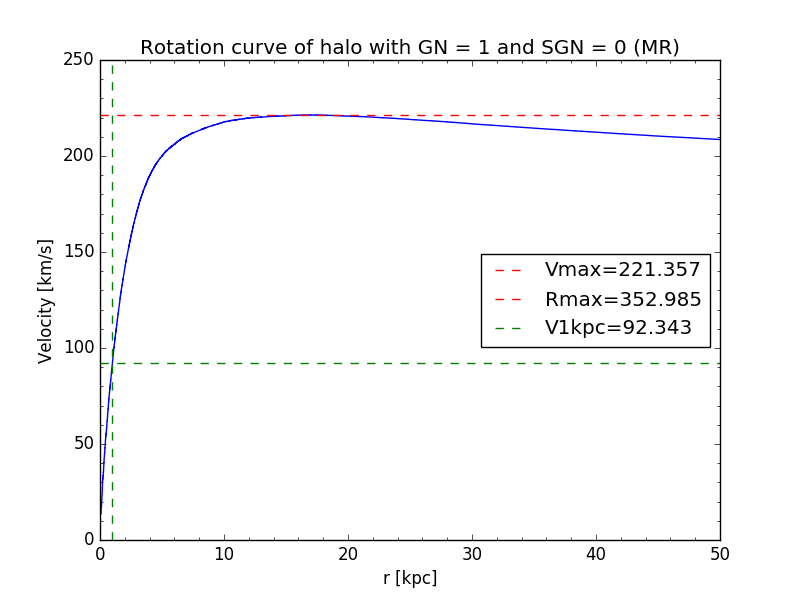
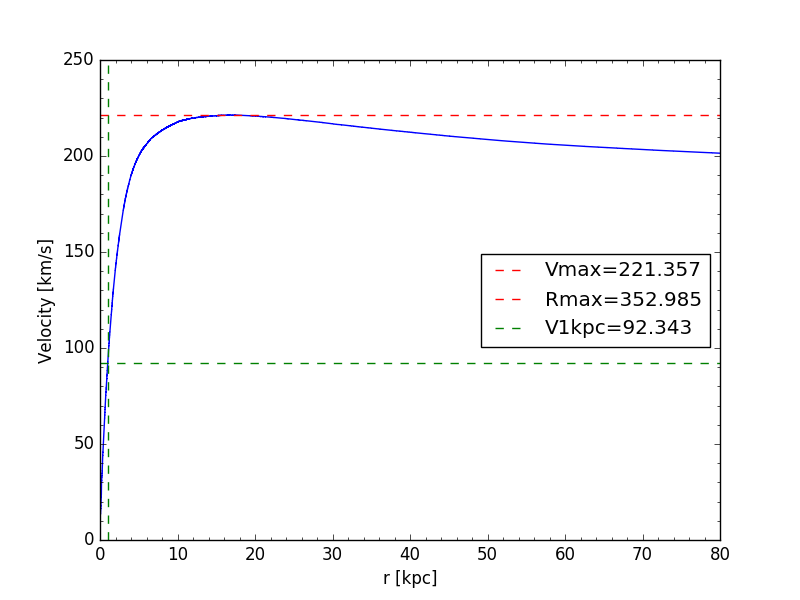
Added a line converting box size units from Mpc/h to kpcPeriodic wrap was causing trouble because the box size was in wrong units

diff --git a/Plots/PlotSubhaloData/plot_rotation_curve.py b/Plots/PlotSubhaloData/plot_rotation_curve.py
@@ -20,7 +20,8 @@ class RotationCurve:
 
         self.dataset = dataset
         self.a, self.h, self.massTable, self.boxsize = read_header(dataset=self.dataset)
-        self.centre = self.find_centre_of_potential(gn, sgn)
+        self.boxsize = self.boxsize*1000/self.h # Mpc/h -> kpc
+        self.centre = self.find_centre_of_potential(gn, sgn) 
 
         # Load data.
         self.gas    = self.read_galaxy(0, gn, sgn)
@@ -59,26 +60,21 @@ class RotationCurve:
         data['coords'] = read_dataset(itype, 'Coordinates', dataset=self.dataset)[mask] * u.cm.to(u.kpc)
 
         # Periodic wrap coordinates around centre.
-#        boxsize = self.boxsize/self.h
-#        data['coords'] = np.mod(data['coords']-self.centre+0.5*boxsize,boxsize)+self.centre-0.5*boxsize
-
+        data['coords'] = np.mod(data['coords']-self.centre+0.5*self.boxsize,self.boxsize)+self.centre-0.5*self.boxsize
         return data
 
     def compute_rotation_curve(self, arr):
         """ Compute the rotation curve. """
 
         # Compute distance to centre.
+        #self.centre = np.mod(self.centre + 0.5*self.boxsize,self.boxsize)-0.5*self.boxsize
+        
         r = np.linalg.norm(arr['coords'] - self.centre, axis=1)
-        #r = np.sqrt(np.sum((arr['coords'] - self.centre)**2, axis=1))
        # r = r[r>0]
         mask = np.argsort(r)
         r = r[mask]
 
-        print(max(r))
-
-        # Compute cumulative mass.
         cmass = np.cumsum(arr['mass'][mask])
-        print(cmass[-1])
 
         # Begin rotation curve from the 10th particle to reduce noise at the low end of the curve.
         r = r[10:]
@@ -113,10 +109,6 @@ class RotationCurve:
         combined['coords'] = np.vstack((self.gas['coords'], self.dm['coords'],
             self.stars['coords'], self.bh['coords']))
 
-        print('0: ', np.min(combined['coords'][:,0]), '--', np.max(combined['coords'][:,0]))
-        print('1: ', np.min(combined['coords'][:,1]), '--', np.max(combined['coords'][:,1]))
-        print('2: ', np.min(combined['coords'][:,2]), '--', np.max(combined['coords'][:,2]))
-        
         r, v = self.compute_rotation_curve(combined)
         plt.plot(r, v)
 
@@ -124,8 +116,6 @@ class RotationCurve:
         subGroupNumbers = read_subhaloData('SubGroupNumber', dataset=self.dataset)
         groupNumbers = read_subhaloData('GroupNumber', dataset=self.dataset)
         vmax = read_subhaloData('Vmax', dataset=self.dataset)[np.logical_and(subGroupNumbers == sgn, groupNumbers == gn)]/100000  # cm/s to km/s
-        mass = read_subhaloData('Mass', dataset=self.dataset)[np.logical_and(subGroupNumbers == sgn, groupNumbers == gn)] * u.g.to(u.Msun)
-        print(mass)
         rmax = read_subhaloData('VmaxRadius', dataset=self.dataset)[np.logical_and(subGroupNumbers == sgn, groupNumbers == gn)] * u.cm.to(u.kpc)
 
         v1kpc = self.calc_V1kpc(combined)
@@ -138,16 +128,16 @@ class RotationCurve:
         # Save plot.
         plt.legend(loc='center right')
         plt.minorticks_on()
-        plt.title('Rotation curve of halo with GN = %i and SGN = %i (%s)'%(gn,sgn,self.dataset))
+        #plt.title('Rotation curve of halo with GN = %i and SGN = %i (%s)'%(gn,sgn,self.dataset))
         plt.ylabel('Velocity [km/s]'); plt.xlabel('r [kpc]')
-        plt.xlim(0, 50); # plt.tight_layout()
+        plt.xlim(0, 80); # plt.tight_layout()
 
         fig = plt.gcf()
         fig.savefig('Figures/RotationCurve_g%i-sg%i_%s.png'%(gn,sgn,self.dataset))
         plt.show()
         plt.close()
 
-RotationCurve(2, 0, dataset='MR')
+RotationCurve(1, 0, dataset='MR')
 
 
 
